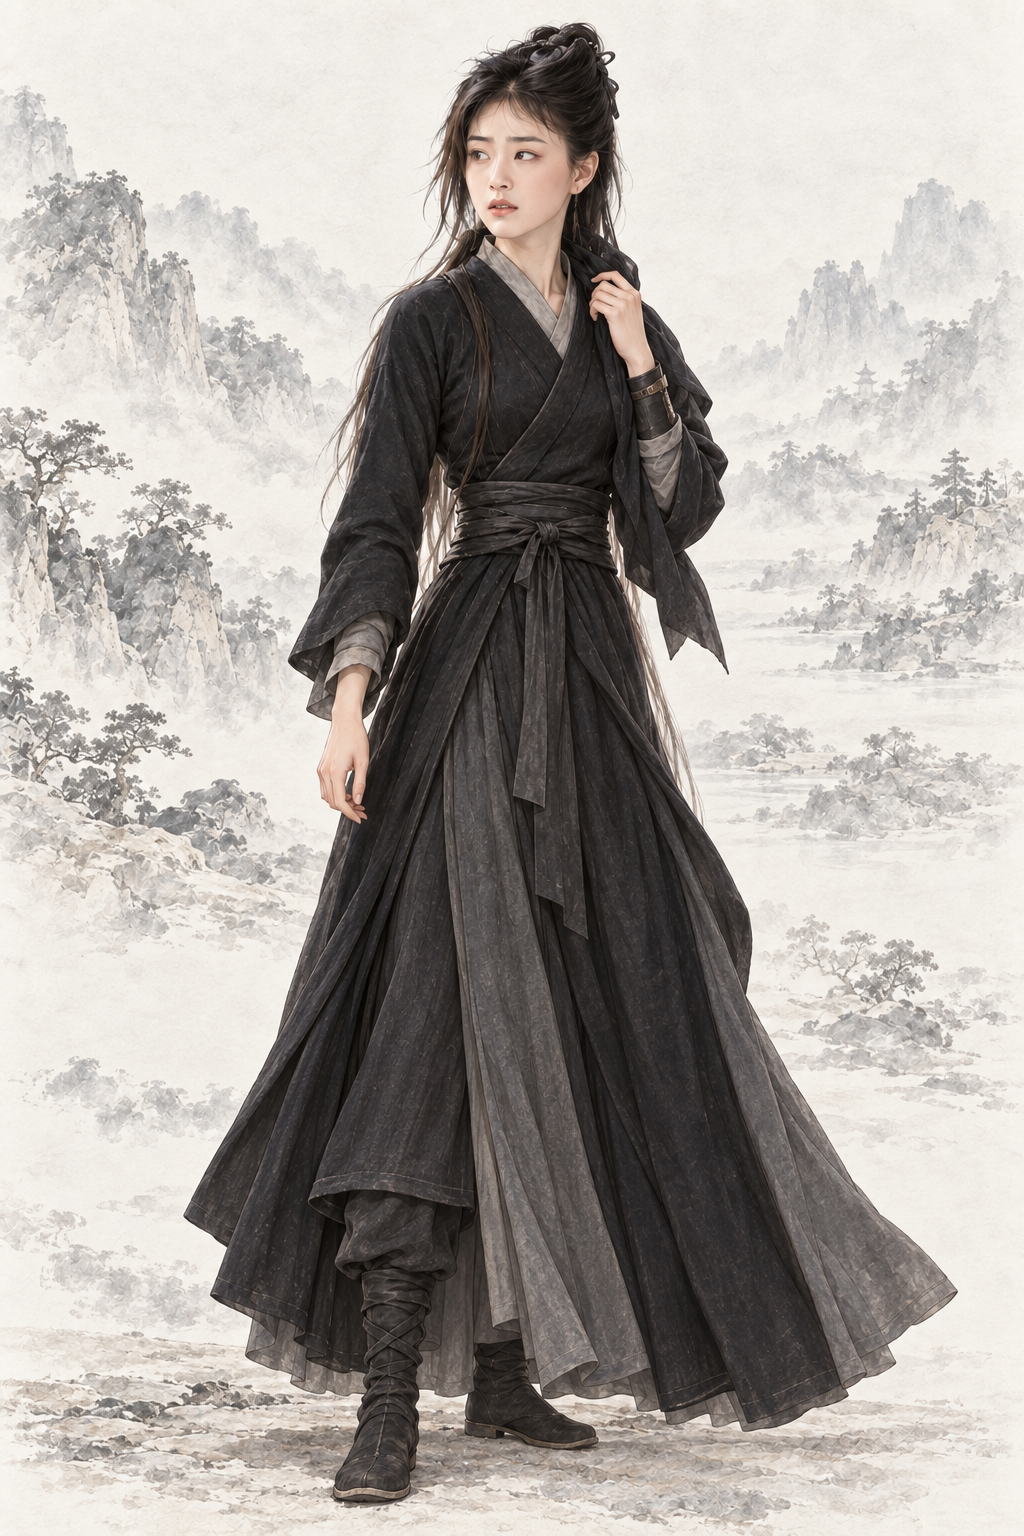
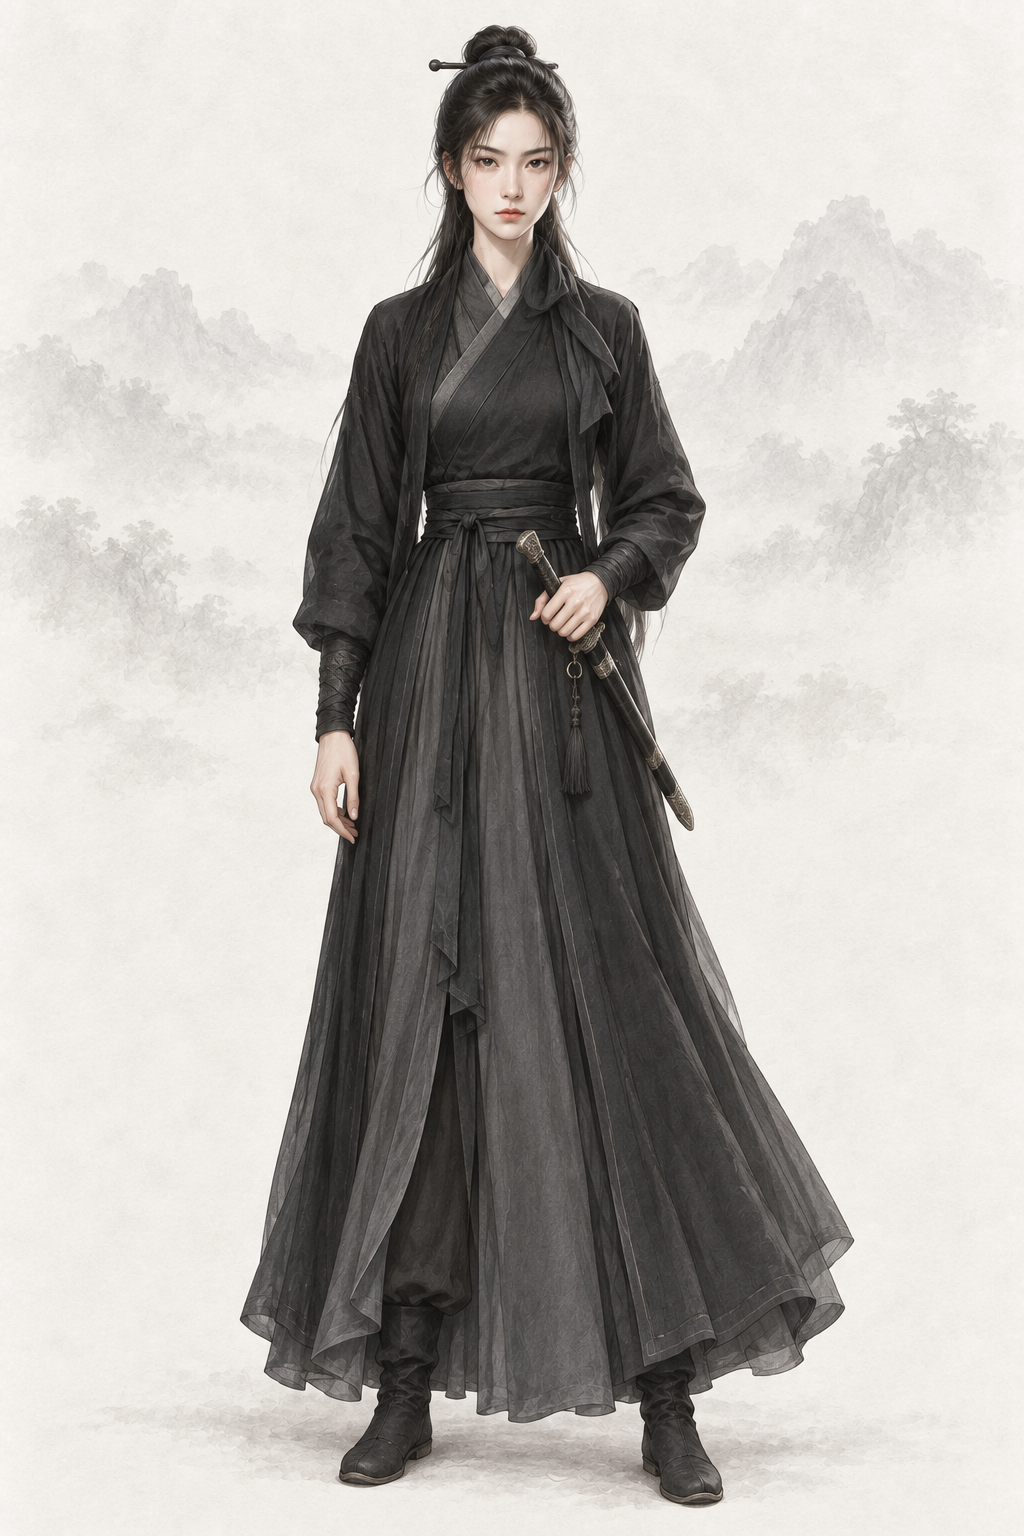
assets(character): por_npc_muwanqing__ch01_youth_unmasked_base 木婉清（codex）
AR-31：重要人物加经典造型文字描写（原创面孔）

diff --git a/assets/default/prompts/characters/ch01-tianlong/npc_muwanqing.md b/assets/default/prompts/characters/ch01-tianlong/npc_muwanqing.md
@@ -22,11 +22,32 @@ realism_revision: user_character_realism_20261001
 redo_reason: "面容源自剧集剧照（肖像风险），按原著黑衣冷艳女侠用文字原创重做"
 reference_upload:
 - assets/default/baseline/character/female/ref_npc_wangyuyan__ch01_base01.png
+codex_prompt_rev: 2026-10-02
 ---
 
 # 木婉清 · 人物写实修正
 
 ## Gemini 提示词
+
+> 2026-10-02 AR-31 改写（1 号出图员，codex exec · image_gen 出图）：重要人物借鉴经典影视造型，只写成文字——不写演员名、不上传剧照、原创面孔；主角和美人画得好看，去 AI 味，禁止幼态。出图时上传两张同性别基线立绘作画风参考（放在最后）。审核组原稿保留在下一节作历史。
+
+```text
+生成一张 2:3 竖幅全身人物立绘：单人、单一视角、完整全身——头顶、双手、双脚和手中器物的两端都在画面内，四周留出自然空白；人物站姿自然，身体基本朝向正面，头部端正（不歪头、不仰不俯），镜头平视。
+【画风】写实手绘古风人物插画，与本项目写实武侠角色立绘同一画风：人物是完整、坚实、比例真实的写实绘画；皮肤有真实质感——细小毛孔、细纹、晒痕、轻微色斑和自然的左右不对称，不磨皮、不油亮；头发有一根根的发丝和自然碎发；布料看得出经纬纹理、厚薄和自然垂坠的褶皱，带穿用过的轻微旧化，但完整不破烂；整体设色低饱和、沉稳；柔和的自然光从左上方照来，明暗过渡自然，不打舞台光、轮廓光或美颜柔光。这是手绘写实绘画，不是照片，不是三维渲染，也不是动漫或游戏 CG。
+【背景】不透明的暖浅灰色纸底，只在远处有极淡的水墨远山和薄雾，大面积留白；人物与背景明暗分明、轮廓边缘干净完整（后续要自动抠图），水墨和纸纹只在背景里，不侵入人物和衣服；脚下只有很淡的一点接触阴影。
+【人物】木婉清，《天龙八部》段誉初入江湖时结识的黑衣女侠（香药叉），修罗刀秦红棉之徒；面纱已揭下、身世誓言冲突的阶段。冷峻倔强、外冷内热。
+【年龄与体态】原著约十八岁，画成约二十岁的成年女子，身材高挑劲瘦，有习武者的利落。成年女性的身体比例（约 7 头身），衣着完整端庄、不透明、不暴露、不性感化。
+【经典造型】借鉴经典武侠影视里这个角色深入人心的造型，只取发型、装束、配色、标志道具、气质和脸型类型，用原创面孔画出来，不像任何真实演员：黑衣女侠——一身黑衣、长发高束，清冷倔强，眉宇间有英气；外冷内热。
+【面容】揭下面纱后容貌清丽而冷：鹅蛋脸略长、下颌线利落，眉毛浓而直、眉尾上挑，一双黑眸冷冷的、带戒备，鼻梁挺直，唇形薄而紧抿，肤色比常人略白（长年蒙面）；神情冷峻疏离（原创扩展）。冷艳美丽。
+【发式】黑发束紧成髻，一根乌木簪固定；揭下的黑纱折起系在颈侧，不遮五官。
+【服饰】哑光黑色交领右衽窄袖长衫，深灰长裙，裙内有便于行动的长裤，黑布腰带，深色软靴。
+【道具】右腕袖口内藏一具小巧的袖箭筒（只露出一点筒口）；腰间挂一柄短刀入鞘。
+【姿态与神情】正面站立，一手按在腰间刀柄附近，一手垂下；眼神冷而倔强。
+【不要】画面里不要任何文字、题款、印章、签名、水印、边框、分格或多视图；不要第二个人；不要幼态（童颜、娃娃脸、婴儿肥、儿童或少年身材、大头小身）；不要塑料感皮肤、磨皮美颜、网红脸（尖下巴大眼高鼻的模板脸）、过度对称、浓妆、偶像式打光、蜡像感；不要照片质感、三维渲染或动漫大眼；不要歪头、斜镜头；不要多指、缺指（设定的伤残除外）、手与器物粘连或悬空；汉式交领必须右衽（穿着者的左襟压在右襟上），不要左衽（设定为少数民族服制的除外），不要水平镜像；不要现代物品、发光特效、法阵或能量光。不要手扶肩头或撩发的摆拍姿势；不要白衣或彩衣；不要黑纱遮脸（此阶段已揭下）；不要浓妆。
+【画风基线】随提示词上传的参考图里，最后两张是本项目的立绘画风基线：只参考它们的画风、用色、光线、质感和暖浅灰纸底加淡水墨的背景处理，整体画风必须与它们一致——精细写实的数字手绘插画，不是油画，不要厚涂笔触和画布纹理。参考图只取画风、光线、质感和背景处理，不取长相：不要照搬基线图里人物的长相、年龄、发型、服饰和姿势。
+```
+
+## 审核组 Gemini 提示词（2026-10-02 AR-30 重审稿；AR-31 改写前，历史，不再用于出图）
 
 > 2026-10-02 重要人物立绘重审（A 组，`tools/agents/reports/REVIEW-portraits-A-ch00-04.md`）：**整体重出**。面容源自剧集剧照（肖像风险），按原著黑衣冷艳女侠用文字原创重做。
 > 本条不上传任何参考图（`reference_upload: []`）；frontmatter 的 `references` 与本节以下内容是旧出图管线的历史记录，不再用于出图。
